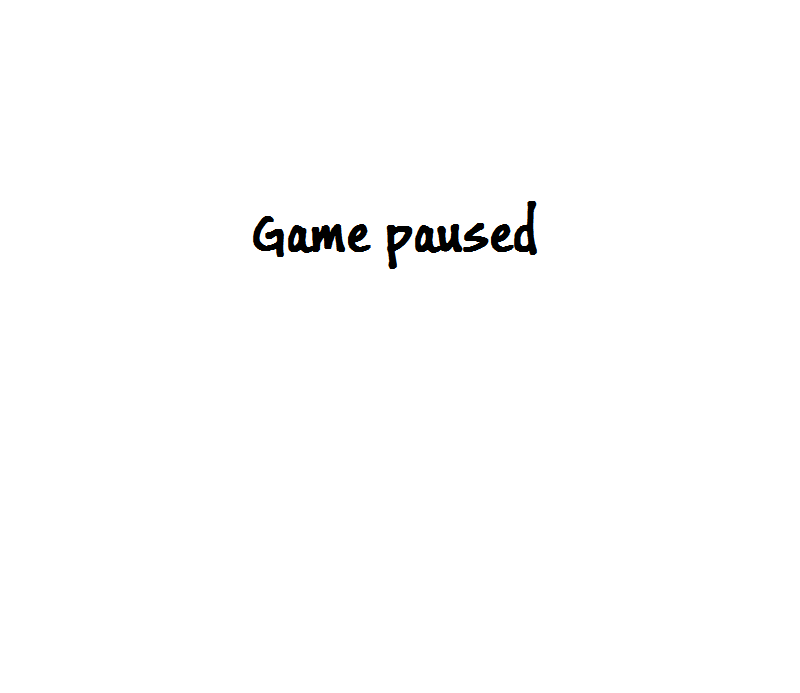
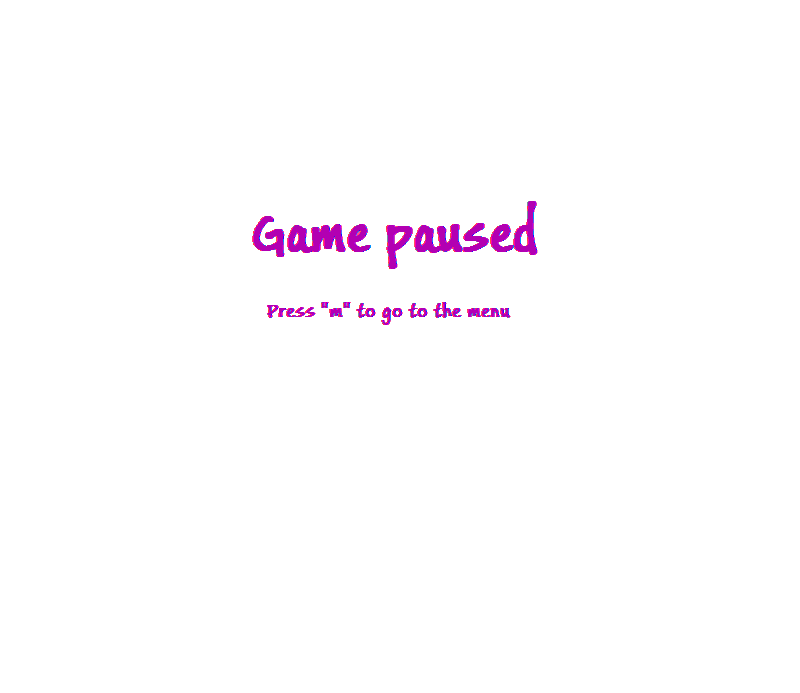
Terminado, agregada opcion de volver al menu en pausa y terminado GDD

Changed region(s): [[0.3125, 0.2727, 0.6875, 0.3939], [0.3125, 0.4242, 0.6562, 0.4848]]

diff --git a/src/js/menu_scene.js b/src/js/menu_scene.js
@@ -1,11 +1,6 @@
 var MenuScene = {
     create: function () {
-        this.game.world._bounds.height = 0;
-	this.game.world._bounds.width = 0;
-	this.game.world._bounds.x = 0;
-	this.game.world._bounds.y = 0;
-	this.game.world._bounds.type = 22;
-	console.log(this.game.world);
+ 
         var logo = this.game.add.sprite(this.game.world.centerX, 
                                         this.game.world.centerY, 
                                         'logo');

diff --git a/src/js/main.js b/src/js/main.js
@@ -29,6 +29,7 @@ var PreloaderScene = {
     
     this.load.onLoadStart.add(this.loadStart, this);
     this.game.load.image('pepper', 'images/pepper.png');
+    this.game.load.image('background', 'images/background.png');
     this.game.load.image('goal', 'images/winLine.png');
     this.game.load.image('blank', 'images/blank.png');
     this.game.load.image('pause', 'images/pause.png');

diff --git a/src/js/win_scene.js b/src/js/win_scene.js
@@ -1,4 +1,4 @@
-var MenuScene = {
+var WinScene = {
     create: function () {
         
         var logo = this.game.add.sprite(this.game.world.centerX, 
@@ -22,4 +22,4 @@ var MenuScene = {
     } 
 };
 
-module.exports = MenuScene;
+module.exports = WinScene;
